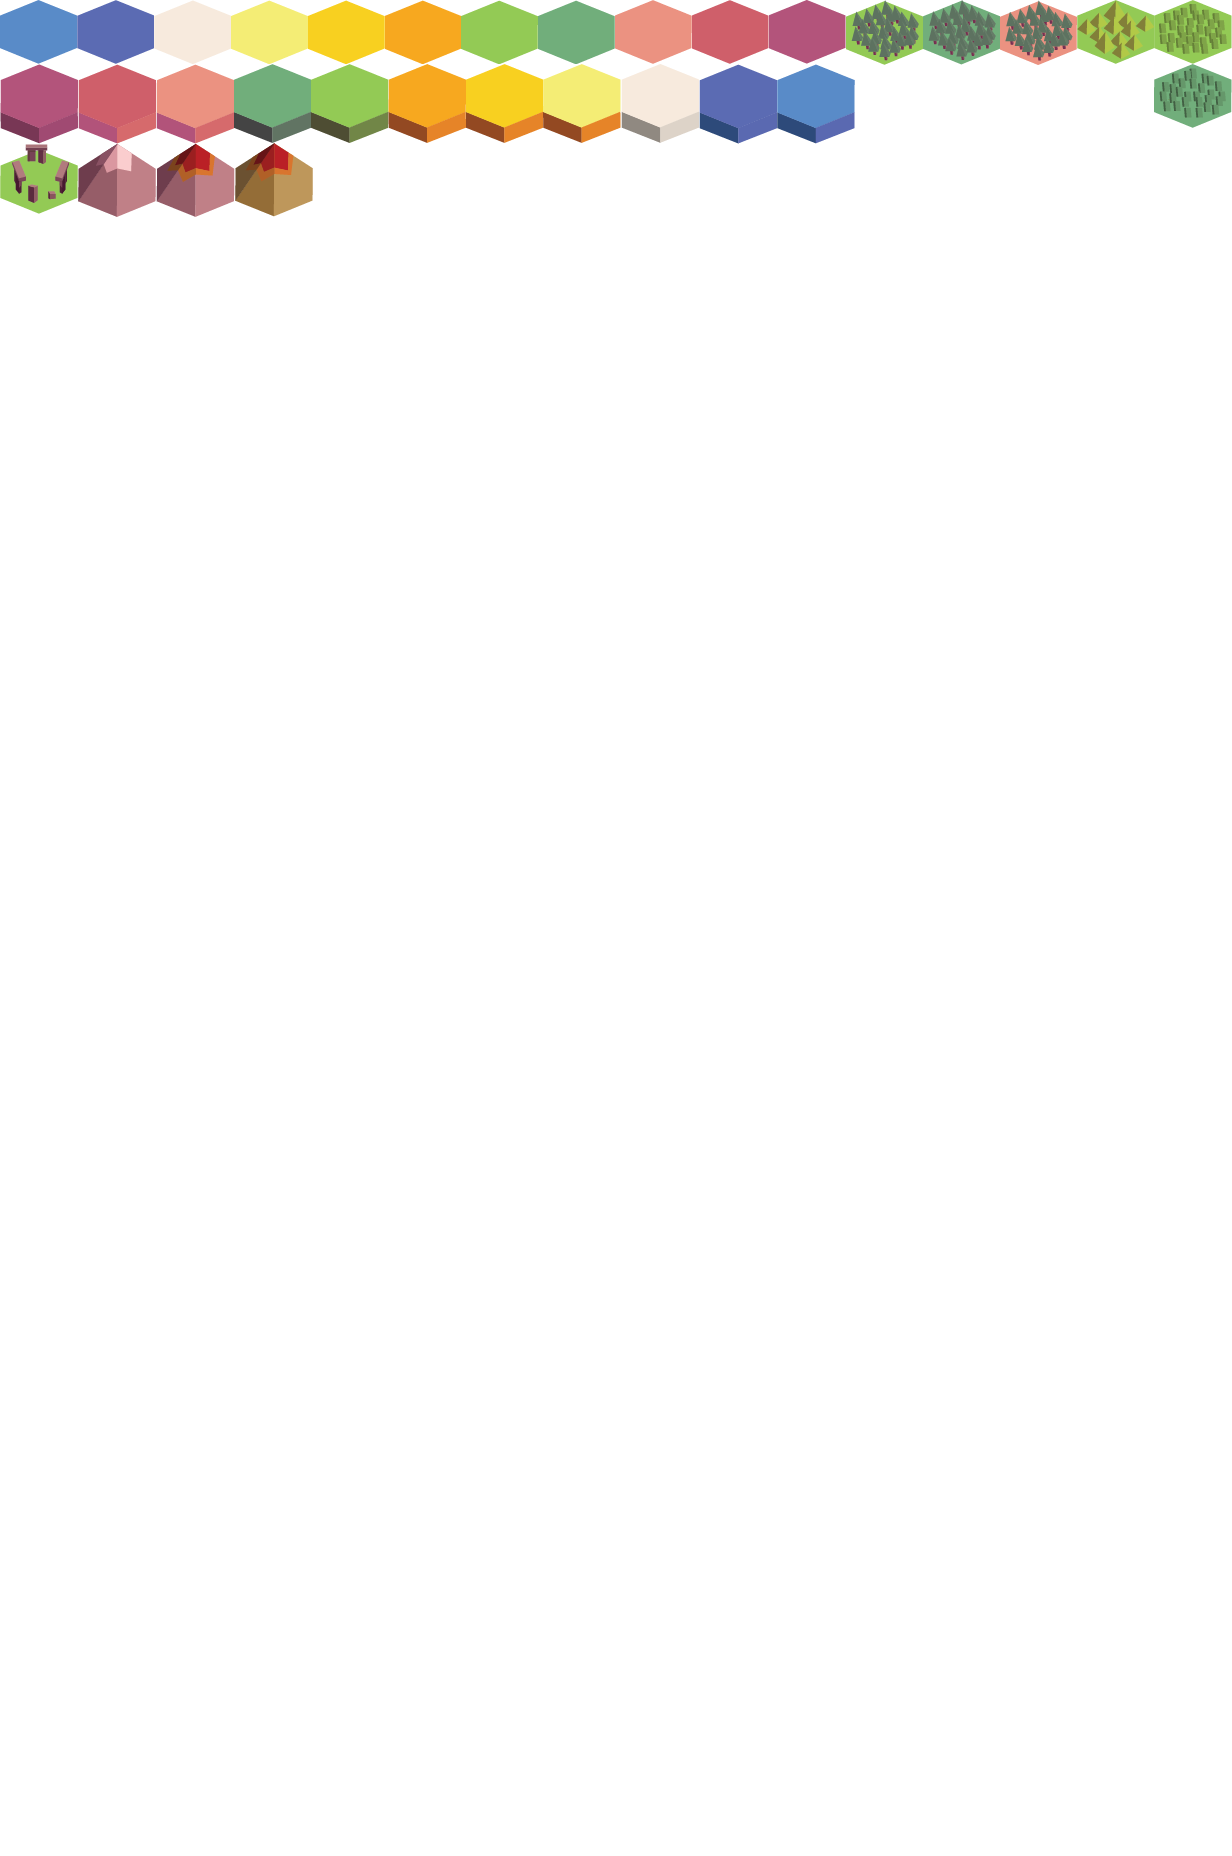
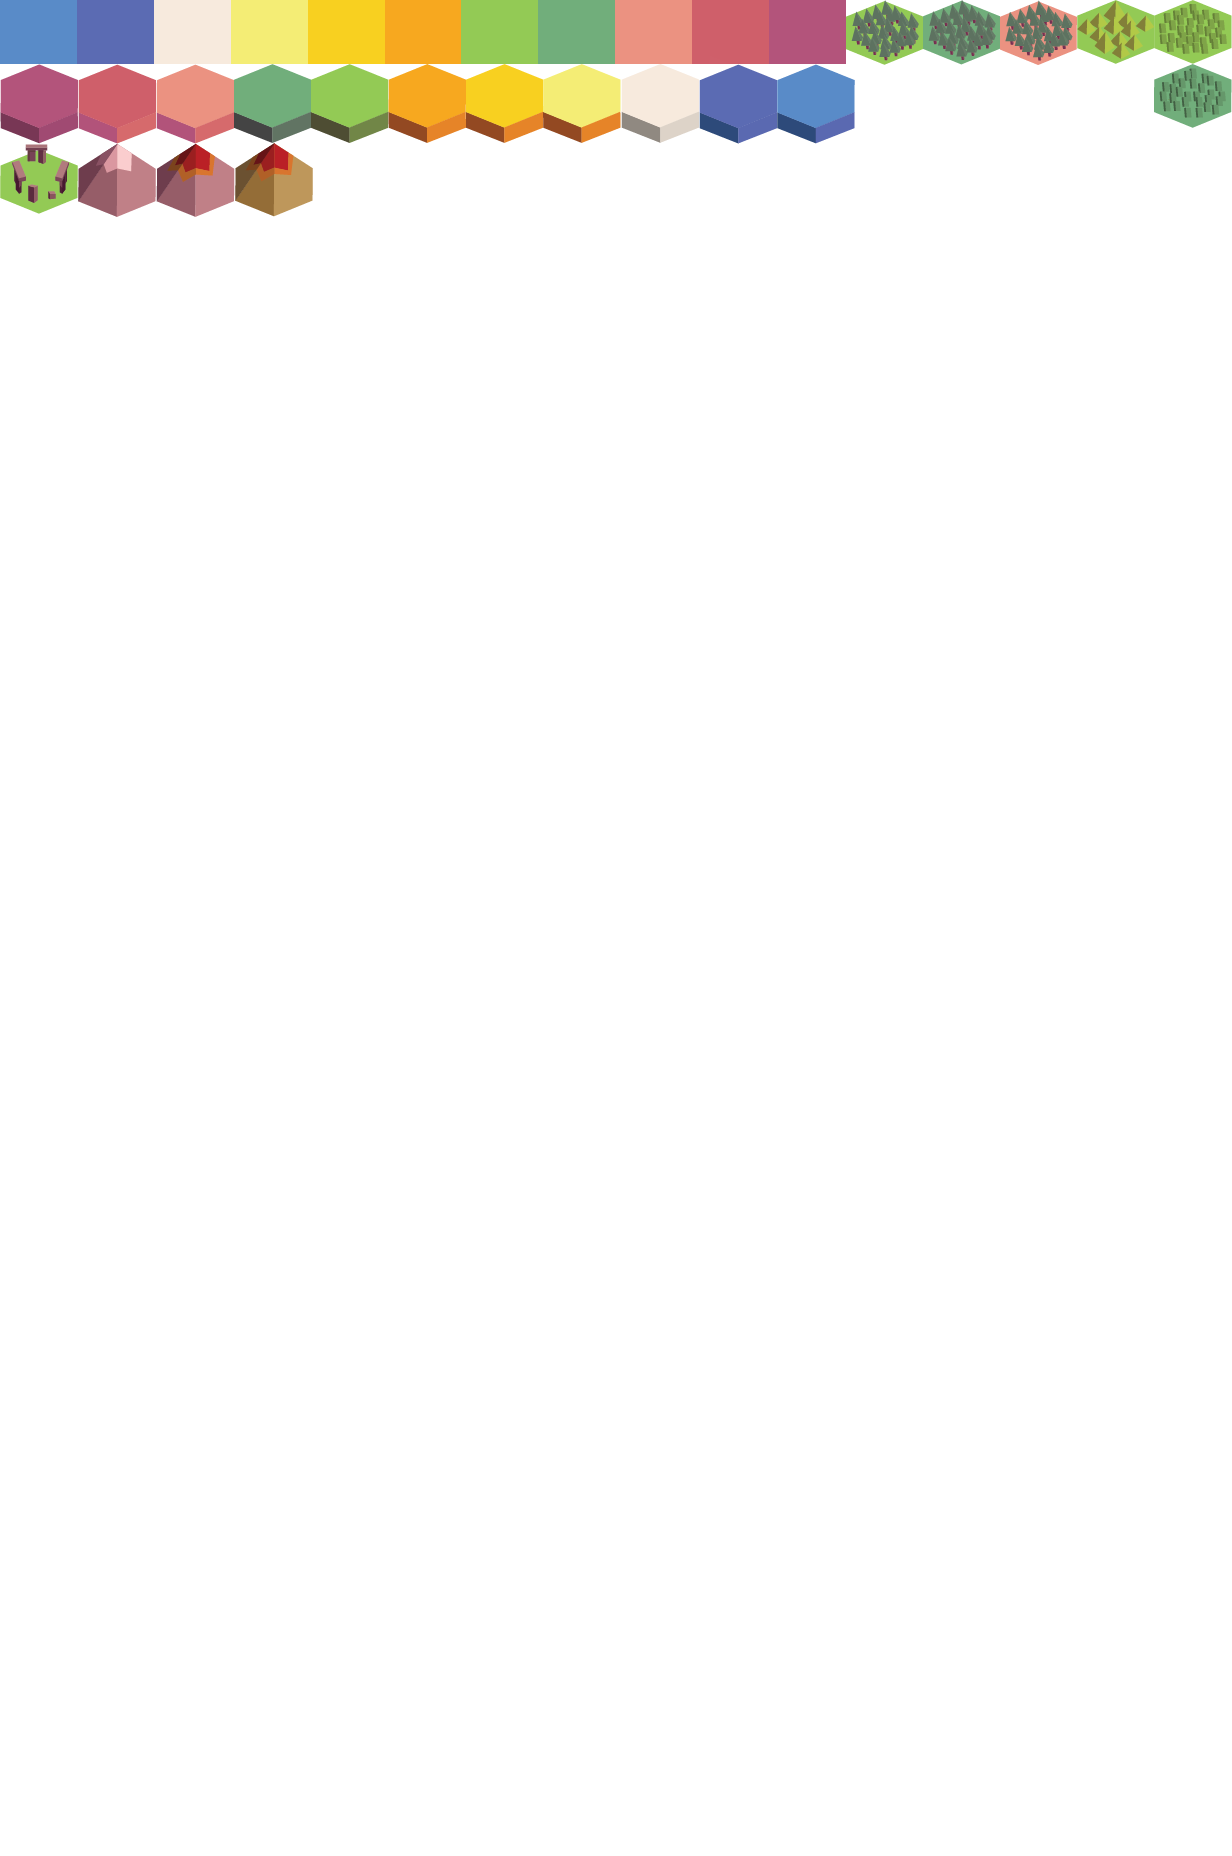
New Hex Map and new tileMap logic

Changed region(s): [[0.0, 0.0, 0.7094, 0.0625]]

diff --git a/src/Game.cpp b/src/Game.cpp
@@ -72,9 +72,18 @@ void Game::main_loop() {
   SDL_Rect crophex = { 0, 0, 77, 64 };
   hexmap.clip = &crophex;
 
-  std::vector<Core::Tile> tiles = {Core::Tile(0, 0, 0, hexmap), Core::Tile(77, 0, 1, hexmap)};
+  std::vector<Core::Tile> tiles = {
+                                   Core::Tile(0, 0, 0, hexmap),
+                                   Core::Tile(77, 0, 1, hexmap),
+                                   Core::Tile(154, 0, 2, hexmap),
+                                   Core::Tile(231, 0, 3, hexmap),
+                                   Core::Tile(308, 0, 4, hexmap),
+                                   Core::Tile(385, 0, 5, hexmap),
+                                   Core::Tile(462, 0, 6, hexmap),
+                                   Core::Tile(538, 0, 7, hexmap)
+  };
   Core::TileMap map("src/assets/hex-map.png", tiles);
-  map.setGrid(2, 2);
+  map.setGrid(4, 2);
 
   while (this->isRunning) {
     while (SDL_PollEvent(&sdlEvent) != 0) {

diff --git a/src/core/TileMap.cpp b/src/core/TileMap.cpp
@@ -13,9 +13,13 @@ Core::TileMap::~TileMap() {
 }
 
 void Core::TileMap::render(SDL_Renderer *renderer) {
-  for (Core::Tile &tile : this->tiles) {
-    tile.setPosition(glm::ivec2(tile.getType() * tile.getWidth(), 0));
-    tile.render(renderer);
+  for (int y = 0; y < this->grid_y; y++) {
+    for (int x = 0; x < this->grid_x; x++) {
+      int index = x + (y * this->grid_x);
+      glm::ivec2 pos(x * this->tiles[index].getWidth(), y * this->tiles[index].getHeight());
+      this->tiles[index].setPosition(pos);
+      this->tiles[index].render(renderer);
+    }
   }
 }
 
